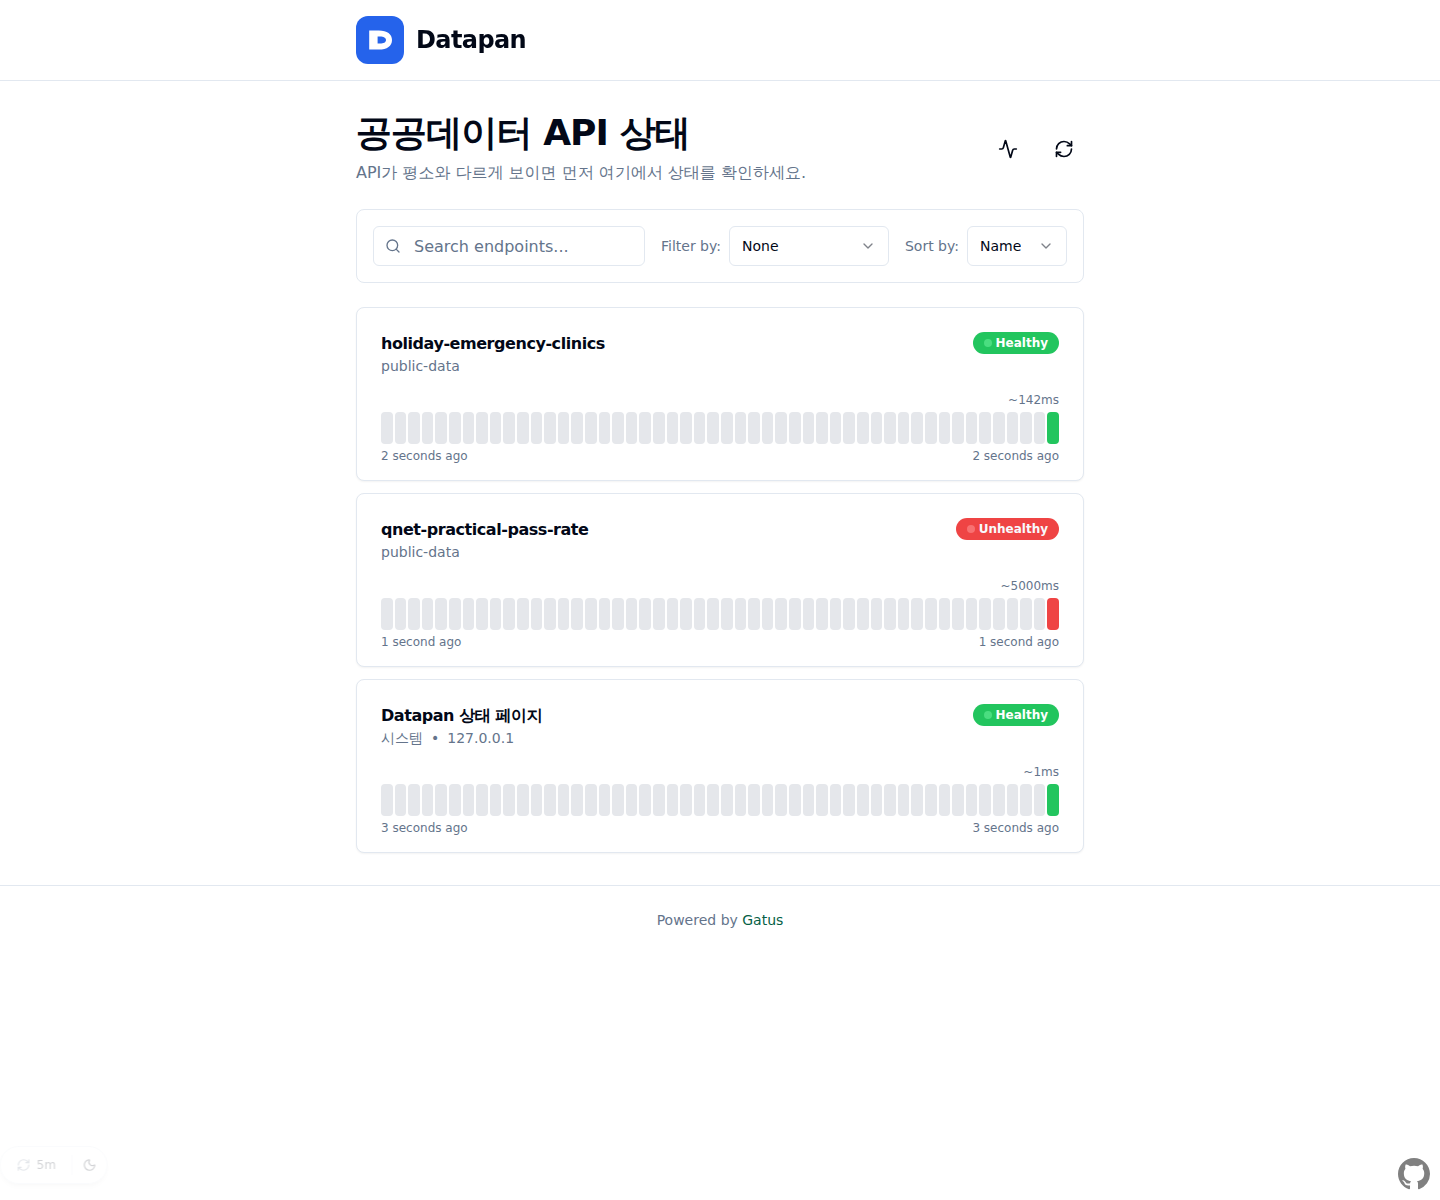
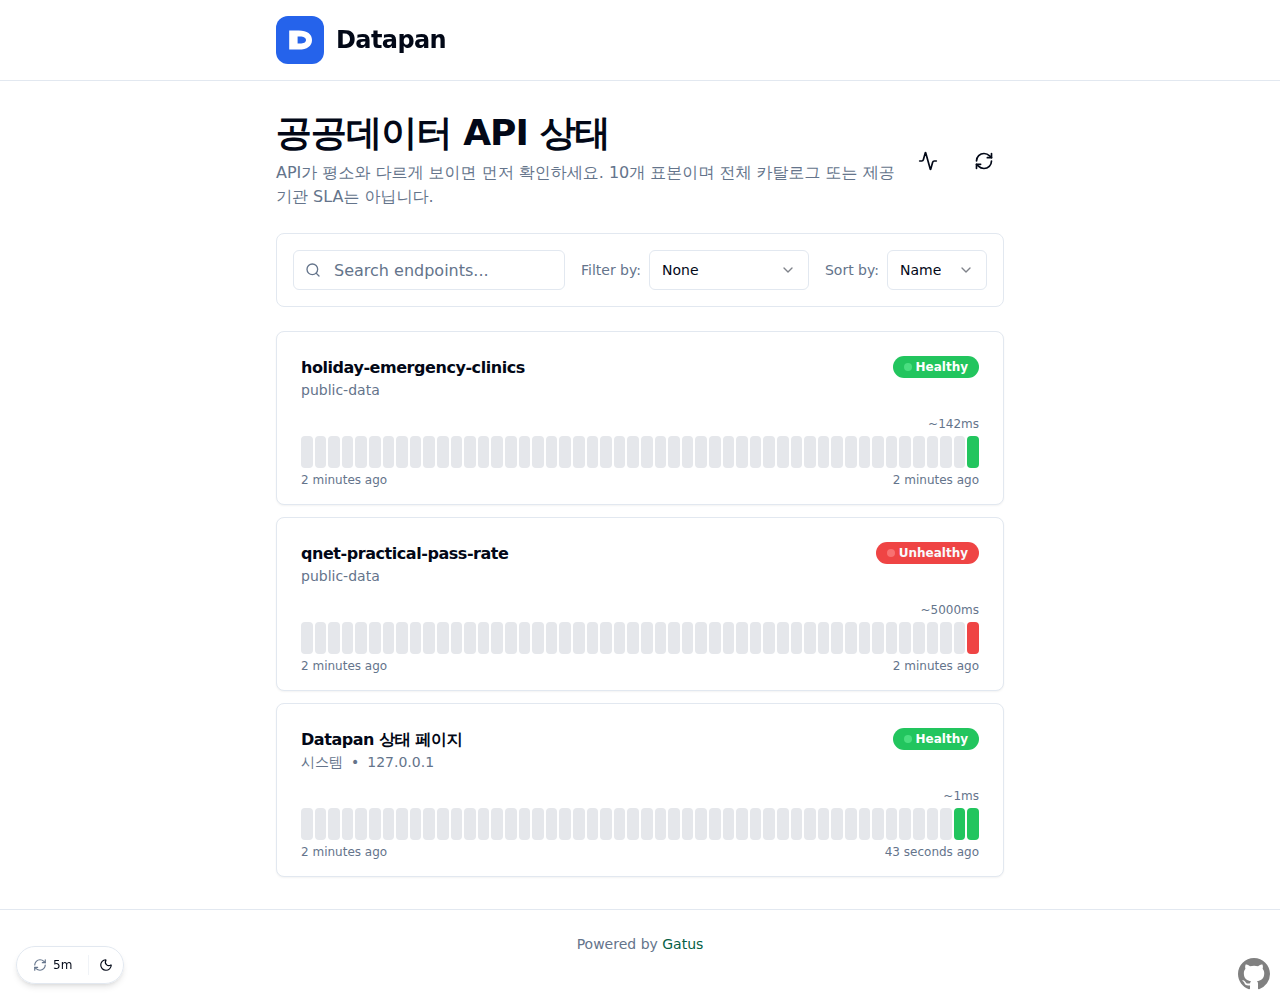
feat: Separate raw observations from confirmed incidents in public status (#63)
* feat(status): distinguish observations from incidents

* test: refresh diagnostic proof provenance

* docs: refresh status visual evidence for canary scope

diff --git a/internal/health/public_status_test.go b/internal/health/public_status_test.go
@@ -33,7 +33,7 @@ func testPublicDocument(t *testing.T) PublicStatusDocument {
 	}
 	operations := make([]PublicOperationStatus, 0, len(config.Canaries))
 	for _, canary := range config.Canaries {
-		operations = append(operations, PublicOperationStatus{OperationID: canary.OperationID, ObservationState: "not_observed", Availability: "unknown", Diagnosis: unknownPublicDiagnosis()})
+		operations = append(operations, PublicOperationStatus{OperationID: canary.OperationID, ObservationState: "not_observed", RawObservationState: "unknown", IncidentState: "unknown", ConsecutiveFailureThreshold: canary.ConsecutiveFailuresBeforeIncident, Availability: "unknown", Diagnosis: unknownPublicDiagnosis()})
 	}
 	return PublicStatusDocument{SchemaVersion: PublicStatusSchemaVersion, GeneratedAt: publicNow, DiagnosticRegistryRevision: AcceptedDiagnosticRegistryRevision, ObservationCatalogRevision: config.ConsumptionProvenance.RegistryDatasetRevision, Operations: operations}
 }
@@ -199,10 +199,10 @@ func TestPublicStatusSourceProjectsExactIdentityAndFreshness(t *testing.T) {
 	for _, operation := range document.Operations {
 		byID[operation.OperationID] = operation
 	}
-	if got := byID[config.Canaries[0].OperationID]; got.Availability != "operational" || got.ObservationState != "current" {
+	if got := byID[config.Canaries[0].OperationID]; got.Availability != "operational" || got.ObservationState != "current" || got.RawObservationState != "succeeded" || got.IncidentState != "operational" || got.PendingCount != 0 {
 		t.Fatalf("current=%+v", got)
 	}
-	if got := byID[config.Canaries[1].OperationID]; got.Availability != "unknown" || got.ObservationState != "stale" {
+	if got := byID[config.Canaries[1].OperationID]; got.Availability != "unknown" || got.ObservationState != "stale" || got.RawObservationState != "unknown" || got.IncidentState != "unknown" || got.PendingCount != 0 {
 		t.Fatalf("stale=%+v", got)
 	}
 	encoded, _ := json.Marshal(document)
@@ -211,6 +211,68 @@ func TestPublicStatusSourceProjectsExactIdentityAndFreshness(t *testing.T) {
 			t.Fatalf("forbidden %q projected", forbidden)
 		}
 	}
+}
+
+func TestPublicStatusSourceSeparatesRawObservationIncidentAndRecovery(t *testing.T) {
+	config, err := LoadCanaryConfig("../../config/canaries.json")
+	if err != nil {
+		t.Fatal(err)
+	}
+	var fixture struct {
+		SchemaVersion      string `json:"schema_version"`
+		MissingCanaryIndex int    `json:"missing_canary_index"`
+		Cases              []struct {
+			CanaryIndex int                 `json:"canary_index"`
+			Results     []gatusPublicResult `json:"results"`
+			Expected    struct {
+				ObservationState    string `json:"observation_state"`
+				RawObservationState string `json:"raw_observation_state"`
+				IncidentState       string `json:"incident_state"`
+				PendingCount        int    `json:"pending_count"`
+				Availability        string `json:"availability"`
+			} `json:"expected"`
+		} `json:"cases"`
+	}
+	if err := json.Unmarshal(mustRead(t, "../../testdata/public-status/incident-policy-v1.json"), &fixture); err != nil || fixture.SchemaVersion != "datapan.health-public-status-incident-fixture.v1" || len(fixture.Cases) != 5 {
+		t.Fatalf("invalid fixture: %v", err)
+	}
+	upstream := make([]map[string]any, 0, len(fixture.Cases))
+	for _, testCase := range fixture.Cases {
+		upstream = append(upstream, map[string]any{"key": config.Canaries[testCase.CanaryIndex].GatusEndpointKey, "results": testCase.Results})
+	}
+	body, _ := json.Marshal(upstream)
+	server := httptest.NewServer(http.HandlerFunc(func(w http.ResponseWriter, _ *http.Request) {
+		w.Header().Set("Content-Type", "application/json")
+		_, _ = w.Write(body)
+	}))
+	defer server.Close()
+	source, err := NewGatusPublicStatusSource(server.URL, config, time.Second)
+	if err != nil {
+		t.Fatal(err)
+	}
+	source.now = func() time.Time { return publicNow }
+	document, err := source.Snapshot(context.Background())
+	if err != nil {
+		t.Fatal(err)
+	}
+	byID := map[string]PublicOperationStatus{}
+	for _, operation := range document.Operations {
+		byID[operation.OperationID] = operation
+	}
+	for _, testCase := range fixture.Cases {
+		got := byID[config.Canaries[testCase.CanaryIndex].OperationID]
+		if got.ObservationState != testCase.Expected.ObservationState || got.RawObservationState != testCase.Expected.RawObservationState || got.IncidentState != testCase.Expected.IncidentState || got.PendingCount != testCase.Expected.PendingCount || got.Availability != testCase.Expected.Availability || !isUnknownPublicDiagnosis(got.Diagnosis) {
+			t.Fatalf("case %d=%+v", testCase.CanaryIndex, got)
+		}
+	}
+	missing := byID[config.Canaries[fixture.MissingCanaryIndex].OperationID]
+	if missing.ObservationState != "not_observed" || missing.RawObservationState != "unknown" || missing.IncidentState != "unknown" || missing.PendingCount != 0 || !isUnknownPublicDiagnosis(missing.Diagnosis) {
+		t.Fatalf("missing=%+v", missing)
+	}
+}
+
+func isUnknownPublicDiagnosis(diagnosis PublicDiagnosis) bool {
+	return diagnosis.Code == "unknown" && diagnosis.Determination == "unknown" && diagnosis.AccountableParty == "unknown" && len(diagnosis.RecommendedActionIDs) == 0 && len(diagnosis.AvoidActionIDs) == 0
 }
 
 func TestPublicStatusSourceRejectsUnsafeUpstream(t *testing.T) {
@@ -350,11 +412,14 @@ func TestDatapanStatusRoutesKeepServicesAndDependenciesSeparate(t *testing.T) {
 func TestExternalDependencyObservationCannotPromoteOwnedService(t *testing.T) {
 	document := testPublicDocument(t)
 	document.Operations[0] = PublicOperationStatus{
-		OperationID:      document.Operations[0].OperationID,
-		ObservedAt:       &publicNow,
-		ObservationState: "current",
-		Availability:     "operational",
-		Diagnosis:        unknownPublicDiagnosis(),
+		OperationID:                 document.Operations[0].OperationID,
+		ObservedAt:                  &publicNow,
+		ObservationState:            "current",
+		RawObservationState:         "succeeded",
+		IncidentState:               "operational",
+		ConsecutiveFailureThreshold: 2,
+		Availability:                "operational",
+		Diagnosis:                   unknownPublicDiagnosis(),
 	}
 	handler, err := NewPublicStatusHandler(staticPublicSource{document: document}, []string{"https://datapan.statpan.com"})
 	if err != nil {
@@ -511,6 +576,15 @@ func TestPublicStatusSchemaRejectsPrivateFields(t *testing.T) {
 	inconsistent, _ = json.Marshal(document)
 	if schemas.ValidateHealthPublicStatusV1(inconsistent) == nil {
 		t.Fatal("schema accepted operational availability from a stale observation")
+	}
+
+	document = testPublicDocument(t)
+	document.Operations[0].RawObservationState = "failed"
+	document.Operations[0].IncidentState = "confirmed"
+	document.Operations[0].PendingCount = 1
+	inconsistent, _ = json.Marshal(document)
+	if schemas.ValidateHealthPublicStatusV1(inconsistent) == nil {
+		t.Fatal("schema accepted pending count for a confirmed incident")
 	}
 
 	document = testPublicDocument(t)

diff --git a/internal/health/public_status.go b/internal/health/public_status.go
@@ -35,11 +35,15 @@ type PublicStatusDocument struct {
 }
 
 type PublicOperationStatus struct {
-	OperationID      string          `json:"operation_id"`
-	ObservedAt       *time.Time      `json:"observed_at,omitempty"`
-	ObservationState string          `json:"observation_state"`
-	Availability     string          `json:"availability"`
-	Diagnosis        PublicDiagnosis `json:"diagnosis"`
+	OperationID                 string          `json:"operation_id"`
+	ObservedAt                  *time.Time      `json:"observed_at,omitempty"`
+	ObservationState            string          `json:"observation_state"`
+	RawObservationState         string          `json:"raw_observation_state"`
+	IncidentState               string          `json:"incident_state"`
+	ConsecutiveFailureThreshold int             `json:"consecutive_failure_threshold"`
+	PendingCount                int             `json:"pending_count"`
+	Availability                string          `json:"availability"`
+	Diagnosis                   PublicDiagnosis `json:"diagnosis"`
 }
 
 type PublicDiagnosis struct {
@@ -183,18 +187,14 @@ func (s *GatusPublicStatusSource) Snapshot(ctx context.Context) (PublicStatusDoc
 	if err := json.Unmarshal(data, &endpoints); err != nil {
 		return PublicStatusDocument{}, errors.New("public status source unavailable")
 	}
-	latest := map[string]gatusPublicResult{}
+	resultsByKey := map[string][]gatusPublicResult{}
 	seen := map[string]bool{}
 	for _, endpoint := range endpoints {
 		if seen[endpoint.Key] {
 			return PublicStatusDocument{}, errors.New("public status source unavailable")
 		}
 		seen[endpoint.Key] = true
-		for _, result := range endpoint.Results {
-			if result.Timestamp.After(latest[endpoint.Key].Timestamp) {
-				latest[endpoint.Key] = result
-			}
-		}
+		resultsByKey[endpoint.Key] = append([]gatusPublicResult(nil), endpoint.Results...)
 	}
 	now := s.now().UTC()
 	if now.IsZero() || now.Year() < 2020 {
@@ -202,13 +202,15 @@ func (s *GatusPublicStatusSource) Snapshot(ctx context.Context) (PublicStatusDoc
 	}
 	operations := make([]PublicOperationStatus, 0, len(s.canaries.Canaries))
 	for _, canary := range s.canaries.Canaries {
-		operation := PublicOperationStatus{OperationID: canary.OperationID, ObservationState: "not_observed", Availability: "unknown", Diagnosis: unknownPublicDiagnosis()}
-		if result, ok := latest[canary.GatusEndpointKey]; ok && !result.Timestamp.IsZero() {
+		operation := PublicOperationStatus{OperationID: canary.OperationID, ObservationState: "not_observed", RawObservationState: "unknown", IncidentState: "unknown", ConsecutiveFailureThreshold: canary.ConsecutiveFailuresBeforeIncident, Availability: "unknown", Diagnosis: unknownPublicDiagnosis()}
+		results := resultsByKey[canary.GatusEndpointKey]
+		if result, ok := latestGatusPublicResult(results); ok {
 			observed := result.Timestamp.UTC()
 			operation.ObservedAt = &observed
 			age := now.Sub(observed)
 			if age >= -30*time.Second && age <= time.Duration(canary.HeartbeatMinutes)*time.Minute {
 				operation.ObservationState = "current"
+				operation.RawObservationState, operation.IncidentState, operation.PendingCount = projectIncidentState(results, canary.ConsecutiveFailuresBeforeIncident)
 				if result.Success {
 					operation.Availability = "operational"
 				} else {
@@ -227,6 +229,61 @@ func (s *GatusPublicStatusSource) Snapshot(ctx context.Context) (PublicStatusDoc
 		return PublicStatusDocument{}, errors.New("public status source unavailable")
 	}
 	return document, nil
+}
+
+func latestGatusPublicResult(results []gatusPublicResult) (gatusPublicResult, bool) {
+	var latest gatusPublicResult
+	for _, result := range results {
+		if !result.Timestamp.IsZero() && result.Timestamp.After(latest.Timestamp) {
+			latest = result
+		}
+	}
+	return latest, !latest.Timestamp.IsZero()
+}
+
+// projectIncidentState replays the most recent contiguous result runs against
+// the same threshold used by the pinned Gatus alert policy. A current failed
+// observation is pending until the failure threshold is met; a current
+// successful observation is recovering only when it follows a confirmed
+// failure run and has not yet met the matching success threshold.
+func projectIncidentState(results []gatusPublicResult, threshold int) (rawState, incidentState string, pendingCount int) {
+	ordered := make([]gatusPublicResult, 0, len(results))
+	for _, result := range results {
+		if !result.Timestamp.IsZero() {
+			ordered = append(ordered, result)
+		}
+	}
+	sort.SliceStable(ordered, func(i, j int) bool { return ordered[i].Timestamp.After(ordered[j].Timestamp) })
+	if len(ordered) == 0 || threshold < 2 {
+		return "unknown", "unknown", 0
+	}
+	latest := ordered[0]
+	run := 0
+	for _, result := range ordered {
+		if result.Success != latest.Success {
+			break
+		}
+		run++
+	}
+	if !latest.Success {
+		if run >= threshold {
+			return "failed", "confirmed", 0
+		}
+		return "failed", "pending", run
+	}
+	if run < threshold && run < len(ordered) {
+		priorFailedRun := 0
+		for _, result := range ordered[run:] {
+			if result.Success {
+				break
+			}
+			priorFailedRun++
+		}
+		if priorFailedRun >= threshold {
+			return "succeeded", "recovering", 0
+		}
+	}
+	return "succeeded", "operational", 0
 }
 
 type PublicStatusHandler struct {

diff --git a/internal/health/health_test.go b/internal/health/health_test.go
@@ -109,7 +109,7 @@ func TestCanaryMappingsMatchConfiguredGatusExternalEndpoints(t *testing.T) {
 		if len(parts) != 2 || !strings.Contains(gatus, "group: "+parts[0]) || !strings.Contains(gatus, "name: "+parts[1]) {
 			t.Fatalf("canary does not resolve to a configured Gatus endpoint: %q", canary.GatusEndpointKey)
 		}
-		if !strings.Contains(gatus, "interval: "+strconv.Itoa(canary.HeartbeatMinutes)+"m") || !strings.Contains(gatus, "failure-threshold: "+strconv.Itoa(canary.ConsecutiveFailuresBeforeIncident)) {
+		if !strings.Contains(gatus, "interval: "+strconv.Itoa(canary.HeartbeatMinutes)+"m") || !strings.Contains(gatus, "failure-threshold: "+strconv.Itoa(canary.ConsecutiveFailuresBeforeIncident)) || !strings.Contains(gatus, "success-threshold: "+strconv.Itoa(canary.ConsecutiveFailuresBeforeIncident)) {
 			t.Fatalf("Gatus cadence or incident threshold is missing for %q", canary.GatusEndpointKey)
 		}
 	}

diff --git a/internal/health/diagnostic.go b/internal/health/diagnostic.go
@@ -24,7 +24,7 @@ const (
[6 lines of base64/hex data omitted]
 	maxDiagnosticEnvelopeBytes           = 256 * 1024
 	mappingSchemaVersion                 = "datapan.data-go-kr-diagnostic-evidence-mapping.v1"

diff --git a/docs/design-review.md b/docs/design-review.md
@@ -8,10 +8,11 @@ Visual decision: Preserve the familiar Gatus status-page controls and cards, con
 
 Evidence:
 
-- [Desktop, 1440×1200](evidence/status-desktop.png)
+- [Desktop, 1280×1000](evidence/status-desktop.png)
 - [Mobile, 390×844](evidence/status-mobile.png)
-- Both viewports show the same vertical order, healthy and unhealthy badges, visible focus styling, and no text/image overlap.
-- Evidence was recaptured after ticket #3 from the ephemeral PostgreSQL-backed Compose stack after healthy and unhealthy CLI-style receipts were persisted for `holiday-emergency-clinics` and `qnet-practical-pass-rate`.
+- Both viewports show the same vertical order, healthy and unhealthy badges, visible focus styling, readable sample-scope copy, and no observed text/image overlap or horizontal overflow.
+- Ticket #40 recaptured the local Compose Gatus view at 1280×1000 and 390×844 after the honest 10-canary scope copy changed. The public JSON adapter remains a separate machine-readable surface; this upstream Gatus view does not render its incident fields.
[1 lines of base64/hex data omitted]
 - Gatus provides endpoint link accessibility names; icon controls retain upstream titles/labels.
 
 Open design risk: none. The remaining English filter labels are upstream Gatus controls and do not prevent the Korean Datapan status context; translating them would require a frontend fork, which is explicitly out of scope.

diff --git a/docs/public-status-api.md b/docs/public-status-api.md
@@ -27,6 +27,25 @@ is `unknown`; it cannot promote an owned service. Diagnosis is projected only
 from a separately reviewed accepted input, otherwise it is `unknown` with no
 action IDs.
 
+## Dependency observation and incident meaning
+
+Each dependency operation keeps raw observation, incident, and diagnosis
+separate. `availability` is the latest raw observation: `operational`,
+`degraded`, or `unknown`. It is never a root-cause claim.
+
+- `raw_observation_state` is `succeeded`, `failed`, or `unknown`.
+- `incident_state` is `pending` after an isolated failure, `confirmed` after
+  the configured consecutive-failure threshold, `recovering` after the first
+  success following a confirmed incident, `operational` after the matching
+  consecutive-success threshold, or `unknown` when observation is stale or
+  missing.
+- `consecutive_failure_threshold` and `pending_count` expose the bounded
+  alert-state calculation without exposing provider requests or responses.
+
+The reviewed ten-canary `scope` remains explicit in every dependency response:
+it is neither whole-catalog coverage nor a data.go.kr/provider SLA. `observed_at`
+is per operation; stale and missing observations retain no incident claim.
+
 ## CORS and caching
 
 `PUBLIC_STATUS_ALLOWED_ORIGINS` is required and contains comma-separated exact
